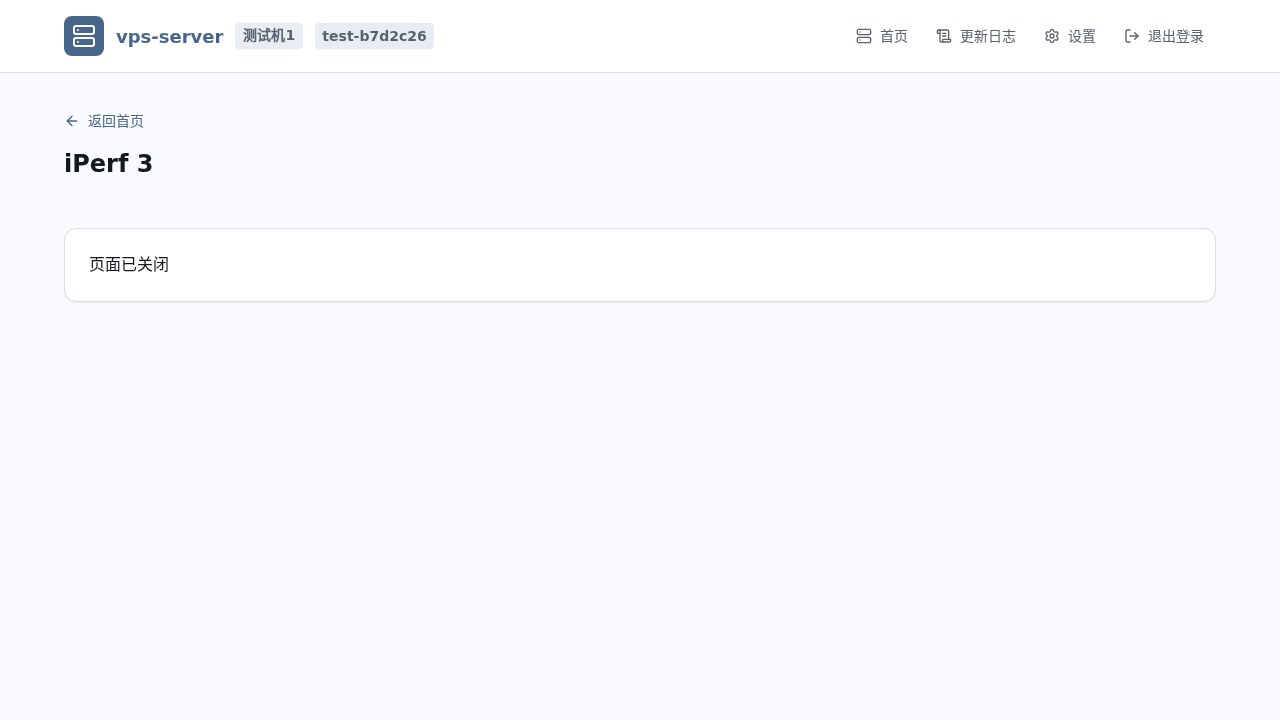
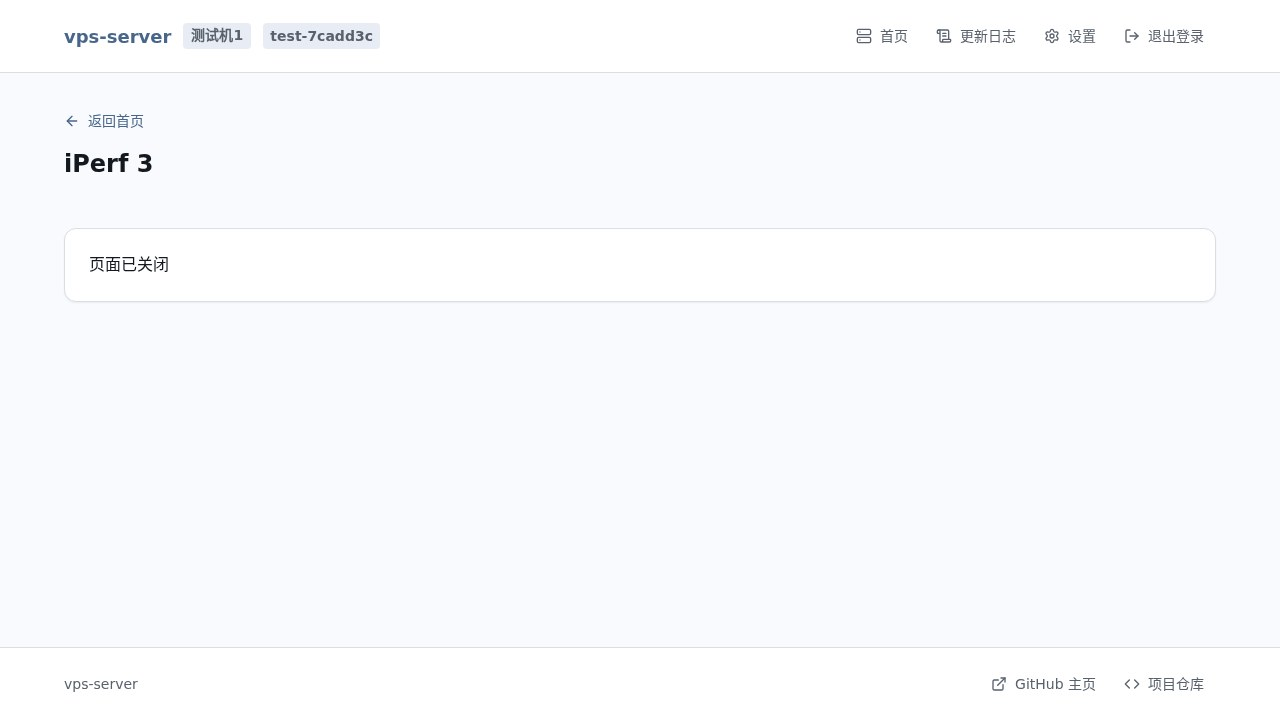
docs: refresh interface screenshots from the current build

diff --git a/doc/es/README.md b/doc/es/README.md
@@ -28,7 +28,7 @@ Administre pruebas de velocidad, proxies, FRP y Tailscale desde una consola Web.
 
 ### Capturas de pantalla
 
-Capturas de la compilación de prueba test-b7d2c26 en el entorno de prueba con la interfaz en chino simplificado. Muestran módulos instalados, formularios de creación y Tailscale sin iniciar sesión; la instalación predeterminada sigue incluyendo solo Web. Las direcciones y credenciales permanecen ocultas, y las capturas de registros muestran solo categorías y filtros.
+Capturas de la compilación de prueba test-7cadd3c en el entorno de prueba con la interfaz en chino simplificado. Muestran módulos instalados, formularios de creación y Tailscale sin iniciar sesión; la instalación predeterminada sigue incluyendo solo Web. Las direcciones y credenciales permanecen ocultas, y las capturas de registros muestran solo categorías y filtros.
 
 ![Inicio y accesos a funciones](../resources/screenshots/zh-cn/home.jpg)
 

diff --git a/doc/en/README.md b/doc/en/README.md
@@ -28,7 +28,7 @@ Manage VPS speed tests, proxies, FRP and Tailscale from one Web console.
 
 ### Interface screenshots
 
-Captured from test build test-b7d2c26 in the test environment with the Simplified Chinese interface. These views show installed modules, creation forms, and Tailscale before sign-in; the default installation still includes only Web. Addresses and credentials remain hidden, and log screenshots show only categories and filters.
+Captured from test build test-7cadd3c in the test environment with the Simplified Chinese interface. These views show installed modules, creation forms, and Tailscale before sign-in; the default installation still includes only Web. Addresses and credentials remain hidden, and log screenshots show only categories and filters.
 
 ![Home and feature shortcuts](../resources/screenshots/zh-cn/home.jpg)
 

diff --git a/README.md b/README.md
@@ -28,7 +28,7 @@
 
 ### 界面预览
 
-以下为测试构建 test-b7d2c26 在测试环境的实拍, 使用简体中文界面. 展示已安装模块, 创建表单和 Tailscale 未登录状态;默认安装仍仅包含 Web. 地址与凭据保持隐藏, 日志截图只展示分类和筛选控件.
+以下为测试构建 test-7cadd3c 在测试环境的实拍, 使用简体中文界面. 展示已安装模块, 创建表单和 Tailscale 未登录状态;默认安装仍仅包含 Web. 地址与凭据保持隐藏, 日志截图只展示分类和筛选控件.
 
 ![主页与功能入口](doc/resources/screenshots/zh-cn/home.jpg)
 
